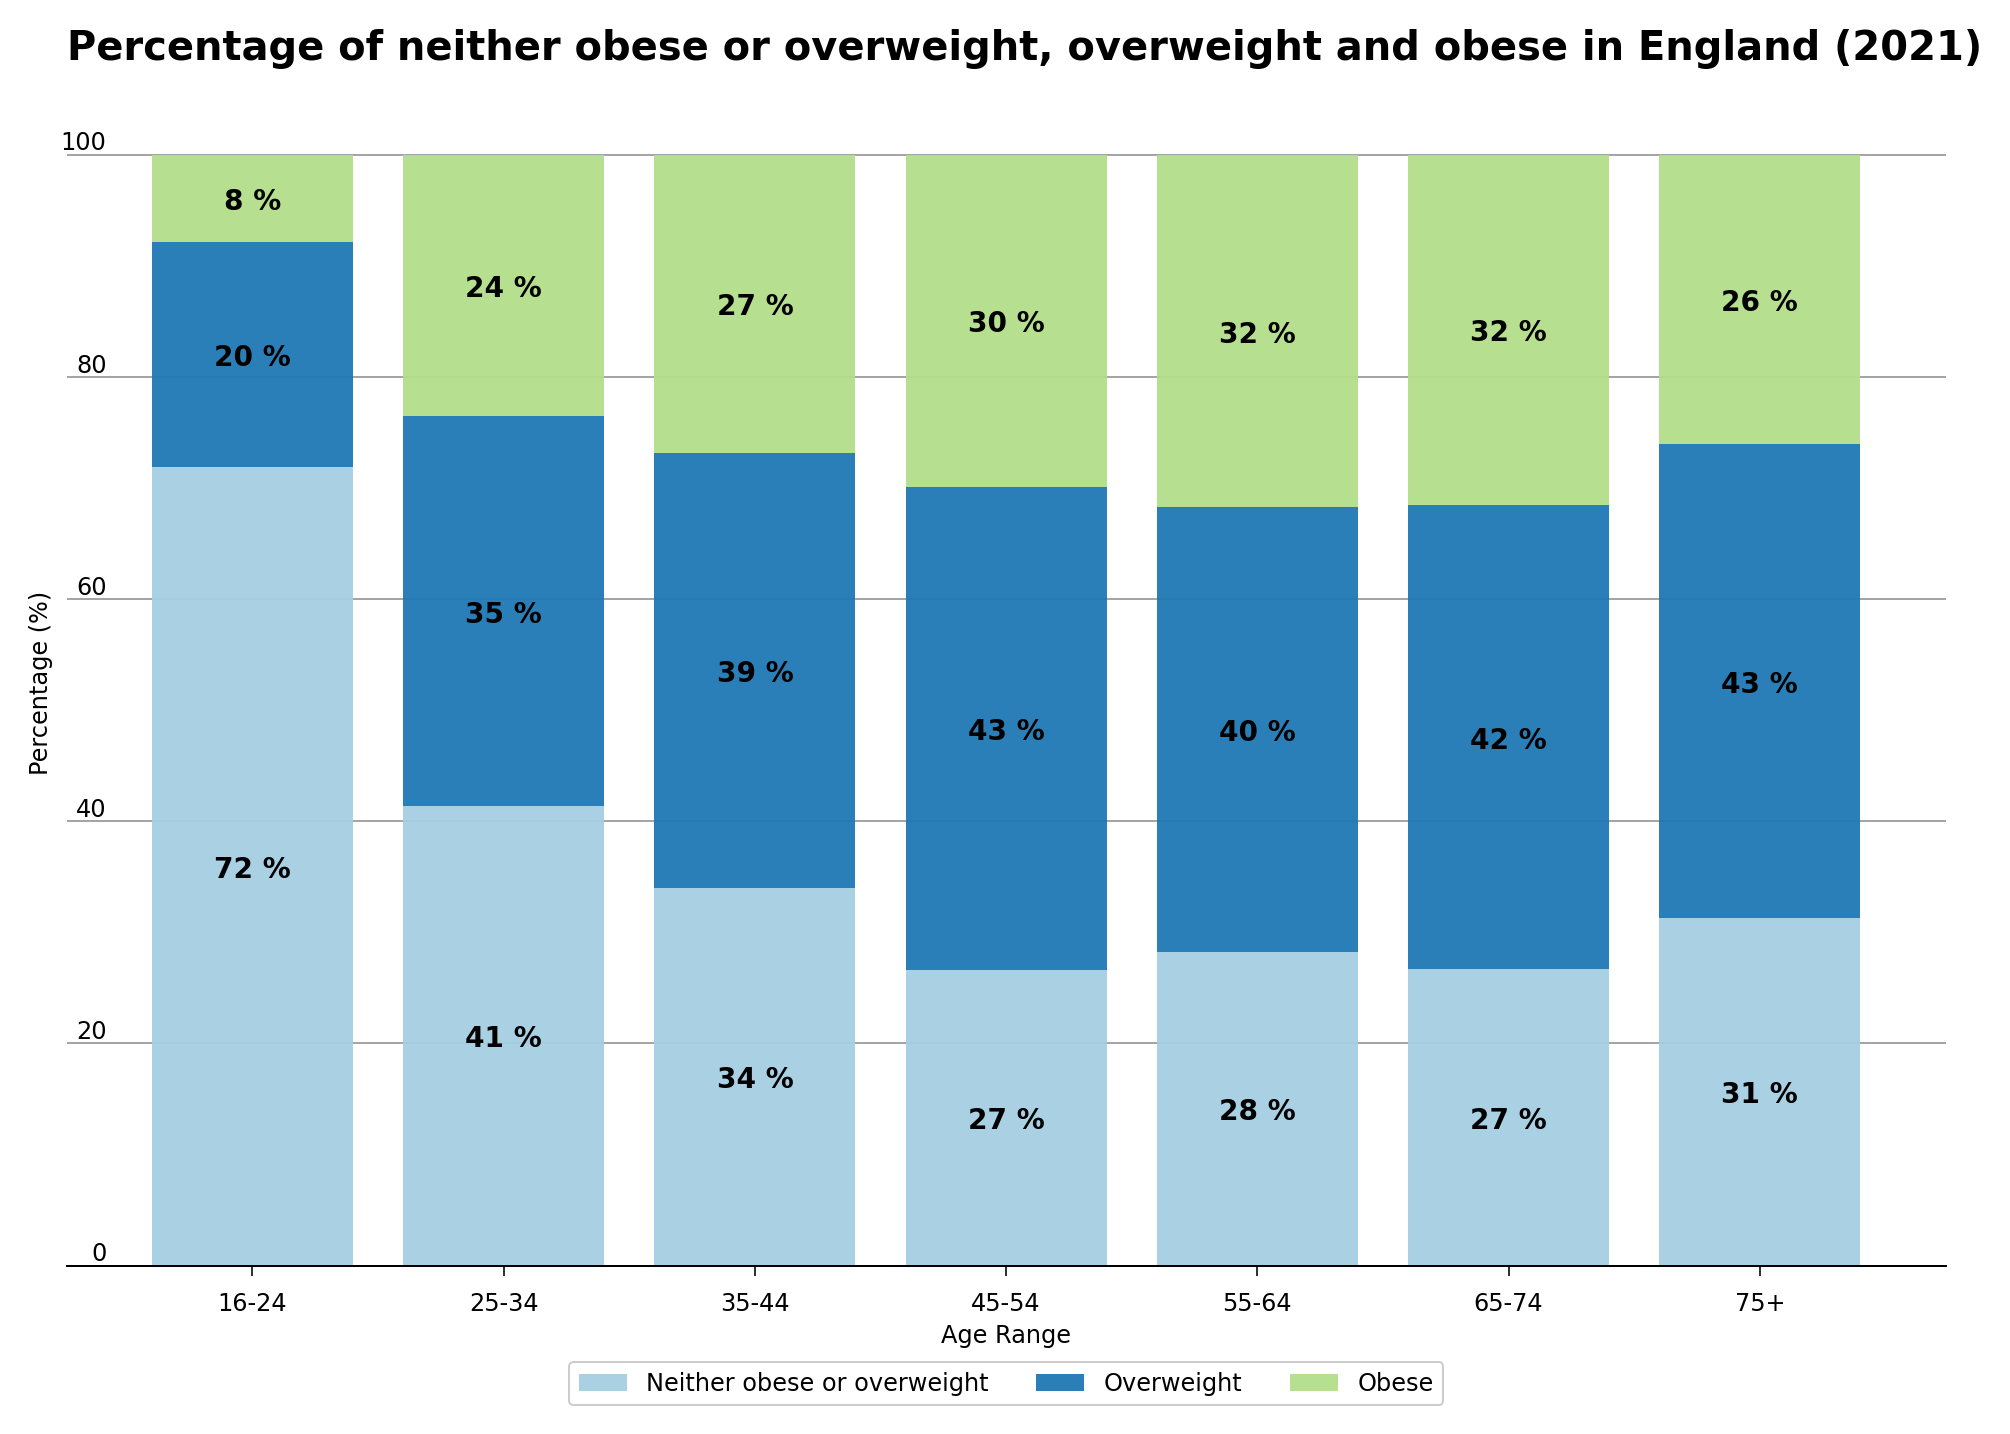
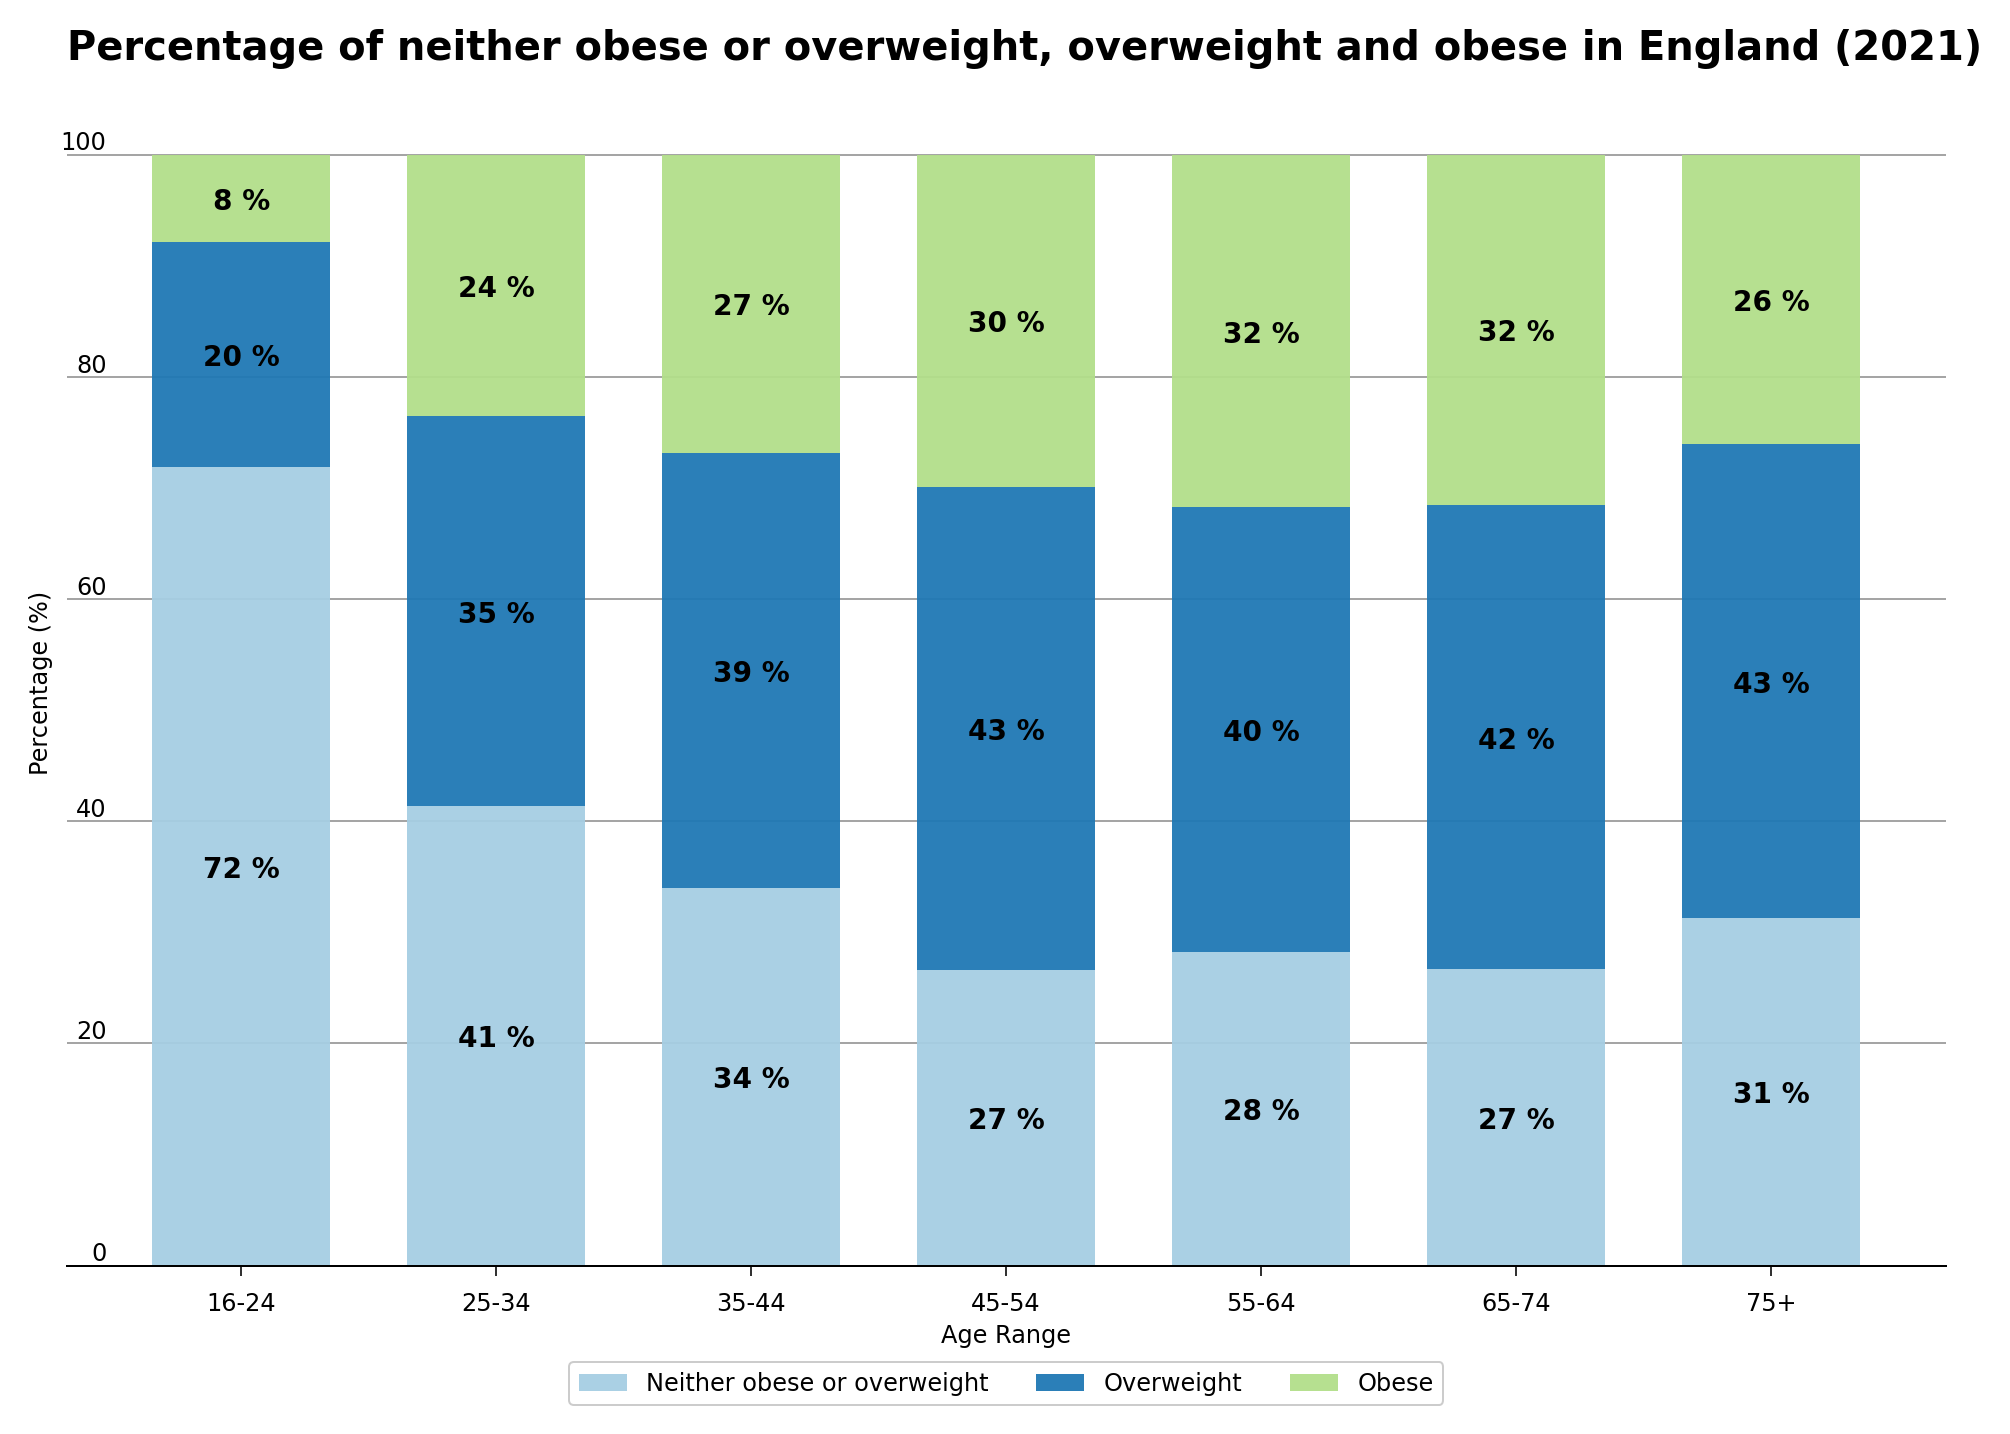
Reduced bar width to 0.7

diff --git a/weight-charts.py b/weight-charts.py
@@ -32,7 +32,7 @@ fig, axes = plt.subplots()
 bottom = np.zeros(7)
 for label, weight_per in weight_dict.items():
     p = axes.bar(age_list, weight_per, bottom=bottom,
-                 label=label, alpha=0.95)
+                 label=label, alpha=0.95, width=0.7)
     bottom += weight_per
 
 bottom_values = np.ones(7)
